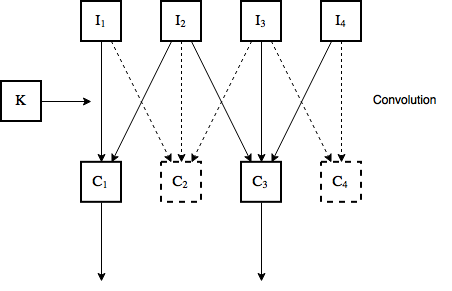
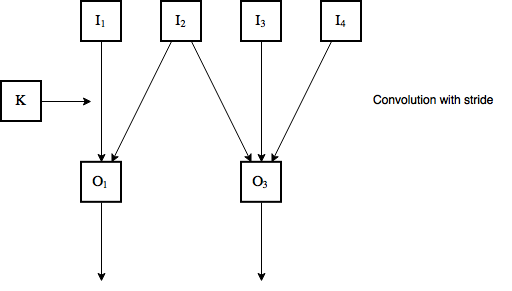
More to the deep learning introduction

diff --git a/report/deep_learning_intro.tex b/report/deep_learning_intro.tex
@@ -8,24 +8,22 @@
 
 In the last section we claimed that a neural network could be used to approximate the
 state-value and action-value functions.
-When we refer to a neural network, what we mean is an artificial neural network -
-a computational model that emulates connections between neurons in the human brain.
-Formally this means that we wish to find the functions $v_\pi^{\sim}(s)$ and $q_\pi^{\sim}(s,a)$ that
-satisfies $v_\pi^{\sim}(s) \approx v_\pi(s)$ and $q_\pi^{\sim}(s,a) \approx q_\pi(s, a)$.
-In general this means that for a function $f(x)$, the neural network tries to approximate
-$f^{\sim}(x)$ such that $f^{\sim}(x)$ varies the least from $f(x)$ for all $x$ in the input
-space\cite{DeepLearningBook}.
-It does so by adjusting its parameters based on experience - data for which $f(x)$ is already known -
-that it can use to compute how well the current approximation is performing.
+Generally for a function $f(x)$ the neural network tries to approximate $f^\sim(x)$
+such that $f^\sim(x)$ varies the least from $f(x)$ for all $x$ in the input space\cite{DeepLearningBook}.
+It does so by adjusting its parameters based on experience - data for which $f(x)$ is already known,
+that can be used to compute how well the current approximation $f^\sim(x)$ is performing.
 
-This data is exactly what is available to us in the agent-environtment model, when there is a natural terminal state,
-since we can then use the experienced actual returns to update the weights of the models.
+This data is exactly what is available in the agent-environtment model, when there is a natural terminal state,
+since we can use the experienced actual returns to update the weights of the models.
 
 \subsubsection{Layers, neurons and connections}
 
-The goal of deep learning is to separate difficult problems into smaller and simpler problems
-and in this process create a hierarchy of concepts, where each concept can be described in terms
-of simpler concepts\cite{DeepLearningBook}.
+Instead of trying to approximate the function $f^\sim(x)$ directly,
+a neural network uses a lot of less complex functions.
+The beginning of the network can then be pretty simple, but by the combination of the results of
+the simpler functions, it is able to solve complex problems in the end.
+We call this structure a hierarchy of concepts, where each concept can be described in terms
+of the previous and simpler concepts\cite{DeepLearningBook}.
 
 More formally, a neural network consists of \textit{layers} that each represent a concept, which
 when connected are able to solve the complex problem at hand.
@@ -36,8 +34,8 @@ defined as
 \end{equation}
 for a network with $k$ layers.
 The only layers that have their dimensions restrained are the first and last, since they are defined by the
-dimensions of the input and the output of the approximator function.
-This means the layers inbetween can have arbitrary shapes and
+dimensions of the input data and the output of the true function, respectively.
+This means the layers in between can have arbitrary shapes and
 since we won't be seeing the output of those layers, we call them \textit{hidden layers}.
 \begin{figure}[!h]
     \centering
@@ -47,15 +45,14 @@ since we won't be seeing the output of those layers, we call them \textit{hidden
 \end{figure}
 Each layer consists of a number of \textit{neurons} that are connected to the neurons of the
 next layer.
-%%%% Figure of layers
 
 Each neuron transforms its series of input signals into a single output signal which is sent to
-each neuron in the following layer through a \textit{weighted connection}, where
-the weight of the connections define the importance of the signals.
-Thus purpose of the hidden layers is to extract the key features of the original input.
-They do so through the usage of \textit{activation functions}.
-Activation functions take the weighted input signals and transform them
-into a single output that describes a feature.
+each neuron in the following layer through \textit{weighted connections}, where
+the weights of the connections define the importance of the signals.
+The main purpose of hidden layers is to extract the key features of the original input
+and they do so through the use of \textit{activation functions}.
+Activation functions transform the weighted input signals into a single output that
+describes a feature.
 %%%% A drawing of a neuron “up close”
 \begin{figure}[!h]
     \centering
@@ -66,16 +63,16 @@ into a single output that describes a feature.
 
 The choice of activation function depends on the task the
 network is supposed to solve.
-E.g. when learning to plat Atari games we generally want to estimate a policy.
+E.g. when learning to play Atari games we generally want to estimate a policy.
 This policy describes the probabilities of taking each available action
 in the given state.
 For this particular task the \textit{softmax} function can be used as activation function
-in the final layer.
+in the output layer.
 The softmax is defined as
 \begin{equation}
-    Softmax(x) = \frac{exp(x_i)}{\sum\limits_{k=1}^K exp(x_k)}, \text{ for } i = 1, \dots, K
+    \text{softmax}(x) = \frac{exp(x_i)}{\sum\limits_{k=1}^K exp(x_k)}, \text{ for } i = 1, \dots, K
 \end{equation}
-for a $k$ dimensional input $x$ and is a generalization of the logistic function shown below
+for a $k$ dimensional input $x$ and is a generalization of the logistic function shown below.
 
 \begin{figure}[!h]
     \centering
@@ -84,32 +81,32 @@ for a $k$ dimensional input $x$ and is a generalization of the logistic function
     \label{fig:softmax}
 \end{figure}
 
-This means that the role of the output of each layer is to provide some additional
+Thus, the role of the output of each layer is to provide some additional
 transformation from the features in order to complete the task the network
 must perform\cite{DeepLearningBook}.
 
 \subsubsection{Learning from multidimensional input}
 
-To process the high dimensional frames the Atari games we will be using
-a \textit{convolutional} neural network.
+To process the high dimensional frames from the Atari games we will be using
+a \textit{convolutional neural network}.
 A convolutional neural network typically performs three operations - a \textit{convolution},
 a \textit{pooling} and an activation.
 
-A convolution in two dimensions of a discrete image I with filter kernel \textbf{K}
+A convolution in two dimensions of a discrete image $I$ with filter kernel $K$
 is given by 
 \begin{equation}
     S(i, j) = (I \ast K)(i, j) = \sum\limits_m \sum\limits_n I(m, n) * K(i - m, j - n)
 \end{equation}
-where the kernel filter \textbf{K} is a function $K : \R^{(d, k)} \to \R$.
+where the kernel filter $K$ is a function $K : \R^{(d, k)} \to \R$.
 A 2d convolutional layer uses the spatial structure in the input data to contruct a feature map
-using the linear filter \textbf{K}.
-Here the kernel filter is learned as the weights in the network.
+using the linear filter $K$.
+Here the kernel filter is the weights of the connections in the network.
 A non-linear function is then applied to the feature map elements resulting from the convolution,
-which can be seen as neurons with shared weights\cite{IgelConv}.
+and the process as a whole can be seen as neurons with shared weights\cite{IgelConv}.
 
-The kernel function can thus be represented as a $d \times k$ dimensional weight matrix
+In the network the kernel filter is used as weights and can be represented as a $d \times k$ dimensional matrix.
 $$
-\mathbf{K} =
+K =
 \begin{bmatrix}
     w_{1,1 } & w_{1, 2} & \hdots & w_{1, k} \\
     w_{2,1 } & w_{2, 2} & \hdots & w_{2, k} \\
@@ -117,8 +114,8 @@ $$
     w_{d,1 } & w_{d, 2} & \hdots & w_{d, k} \\
 \end{bmatrix}
 $$
-In other words each element in the resulting feature map is weighted
-based on its distance to the kernel center.
+Each element in the resulting feature map is weighted based on its distance to the kernel center
+and this can be seen as a neighbourhood function.
 
 Given a $4 \times 4$ input image and a $3 \times 3$ kernel filter a convolution
 would look like this
@@ -136,8 +133,8 @@ features of the input may be lost.
 To deal with this boundary issue we make use of zero padding.
 We simply add zeros to the border of each image until the kernel
 filter fits around each pixel.
-This maintains the dimensions of the original image, since the pixels that are lost are
-now all part of the padding.
+This maintains the dimensions of the original image, since the pixels that are lost, now are
+part of the padding.
 
 %%% Zero padded 2d convolution
 \begin{figure}[!h]\label{con2}
@@ -150,25 +147,26 @@ now all part of the padding.
 Each pixel is now a weighted sum of its neighbouring pixels
 which means that the result of the convolution is features from
 the original input.
-Since the feature map consists of more separated objects than the original input,
-we can now reduce the dimensionality of the feature map without losing much information.
-This is called a pooling of the feature map and is used to support \textit{translation invariance}.
+The feature map now consists of more separated objects than the original input,
+which we means we can more safely reduce the dimensionality of without losing much information - 
+this is called pooling and is used to support \textit{translation invariance}.
 Translation invariance means that the features of the network should be able to
 be extracted, regardless of their position in the feature map.
+In an Atari game most objects move, while maintaining their original shape so being able to
+extract information about objects independent of their position is very useful.
 
 Instead of doing pooling and convolutions in two separate steps, we will be using 
-\textit{convolutions with stride} in this project.
+convolutions \textit{with stride}.
 What this means is that we we won't be be applying the convolution to 
 every element of the input, but instead only the \textit{n'th} element.
-In one dimension this can visualized as
+An example of a one dimensional convolution with stride is visualized below.
 
 %%%%% Strides
 \begin{figure}[!h]\label{con2}
     \centering
     \includegraphics[width=10cm]{include/strides.png}
-    \caption{A convolution with stride 2 of an input using the kernel filter K. Only every second
-        element of te resulting
-            feature map is sent to the next layer.}
+    \caption{A convolution with stride $2$ of an input using the kernel filter K. Only every second
+        element of the resulting feature map is sent to the next layer.}
     \label{fig:conv}
 \end{figure}
 
@@ -176,36 +174,35 @@ Here the convolution skips every second element, resulting in a downsampling
 of the input.
 The pooling operation usually computes the maximum or average of a region of a feature map,
 and using convolution with strides emulates this behaviour since the convolution
-can be seen as a weighted average of neighbouring pixels.
+can be seen as a weighted sum of neighbouring pixels.
 
 
 %%% Move this to after Policy Gradients
-\subsubsection{Updating the weights of the network}
+%\subsubsection{Updating the weights of the network}
 
-A neural network is trained to minimize its total loss based on its \textit{loss
-function}.
-A loss function $\mathcal{L} : \R^K \to \R$ is supposed to describe how close the
-predictions are to the true result.
-In the reinforcement learning setting it is often difficult to estimate the
-true result.
-E.g. for a policy aproximator $\pi^{\sim}(A_t | S_t)$ we want to use the knowledge
-of wether or not action $A_t$ was  chosen in state $S_t$ to determine
-whether the probability of taking $A_t$ should be increased or decreased to
-reduce the loss of the network.
-Therefore the weights of the connections in the network are typically updated
-in a direction in the weight space.
-This direction describes how the weights should be updated to increases the
-probability of repeating the action $A_t$ the most on future visits to
-state $S_t$\cite{RLbook}.
-To find the direction we would use the \textit{gradient} of the probability of
-taking the action actually taken, since it exactly describes how to increate
-this probability.
-
-Now, this would increase the chance of picking action $A_t$ in state $S_t$ again,
-but we really only want to pick actions again that lead to a good return.
-Therefore the probability is generally updated proportionally to the
-return, since the network will then learn to favor actions that provide
-the highest return.
-
-
+%A neural network is trained to minimize its total loss based on its \textit{loss
+%function}.
+%A loss function $\mathcal{L} : \R^K \to \R$ is supposed to describe how close the
+%predictions are to the true result.
+%In the reinforcement learning setting it is often difficult to estimate the
+%true result.
+%E.g. for a policy aproximator $\pi^{\sim}(A_t | S_t)$ we want to use the knowledge
+%of wether or not action $A_t$ was  chosen in state $S_t$ to determine
+%whether the probability of taking $A_t$ should be increased or decreased to
+%reduce the loss of the network.
+%Therefore the weights of the connections in the network are typically updated
+%in a direction in the weight space.
+%This direction describes how the weights should be updated to increases the
+%probability of repeating the action $A_t$ the most on future visits to
+%state $S_t$\cite{RLbook}.
+%To find the direction we would use the \textit{gradient} of the probability of
+%taking the action actually taken, since it exactly describes how to increate
+%this probability.
+%
+%Now, this would increase the chance of picking action $A_t$ in state $S_t$ again,
+%but we really only want to pick actions again that lead to a good return.
+%Therefore the probability is generally updated proportionally to the
+%return, since the network will then learn to favor actions that provide
+%the highest return.
+%
 \end{document}
